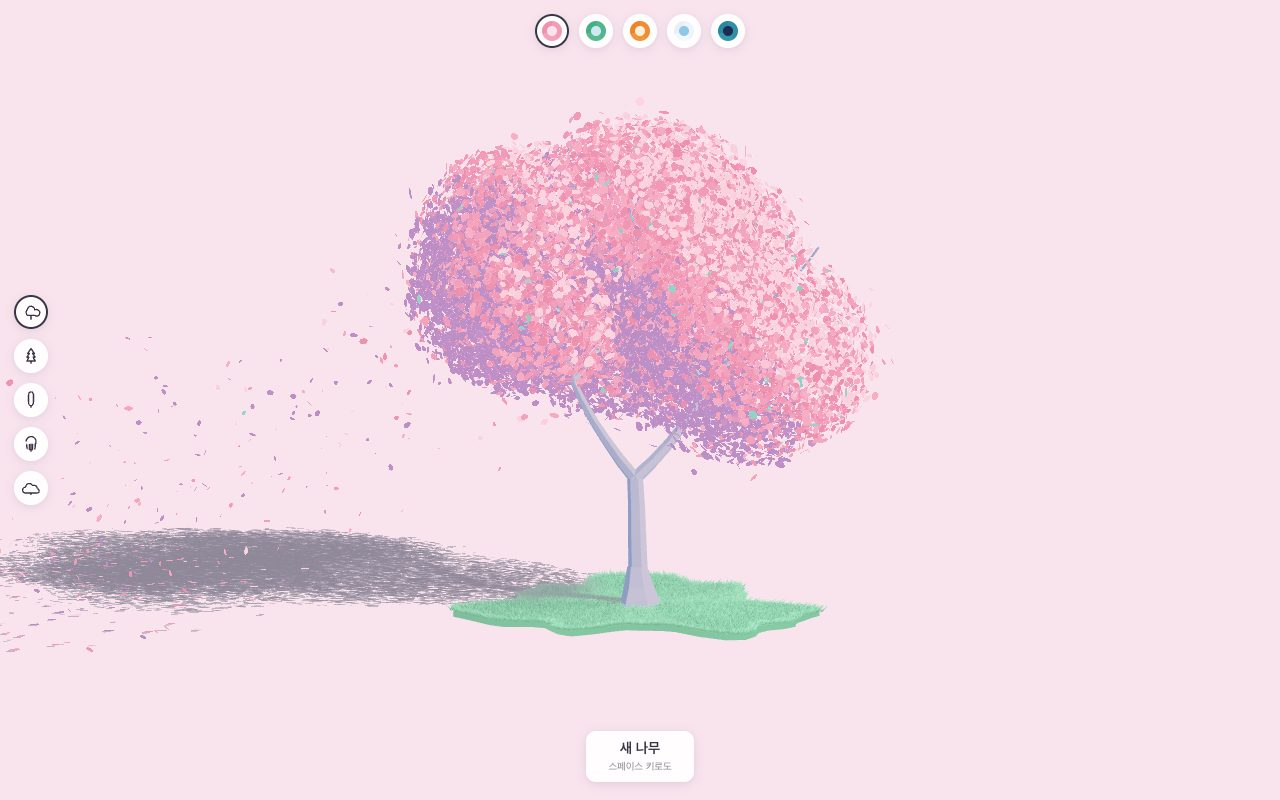
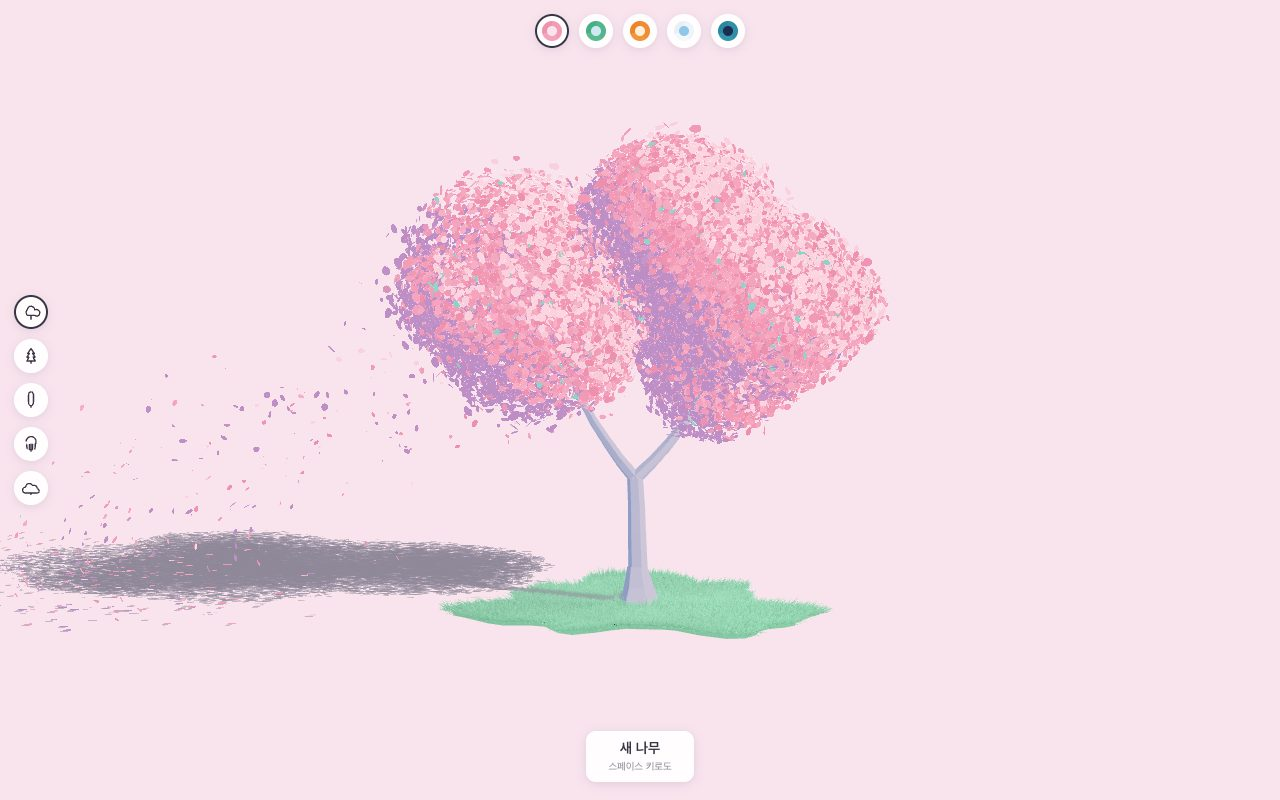
Season Tree v0.3.1: new thumbnail and version

diff --git a/MAP.md b/MAP.md
@@ -268,7 +268,7 @@ npm version patch   # minor / major 도 됨
 
 | 작업물 | 저장소 | 배포 방식 | 카드 표시 |
 |---|---|---|---|
-| 계절나무 | tomlim2/season-tree | `v*` 태그 → Actions | `v0.3.0` |
+| 계절나무 | tomlim2/season-tree | `v*` 태그 → Actions | `v0.3.1` |
 | 구름바다 | tomlim2/cloud-sea | `v*` 태그 → Actions | `v0.1.1` |
 | 빛우물 | tomlim2/light-well | `v*` 태그 → Actions | `v0.4.0` |
 | 오늘의 디스크 | tomlim2/cd-case | `v*` 태그 → Actions | `v0.2.0` |
